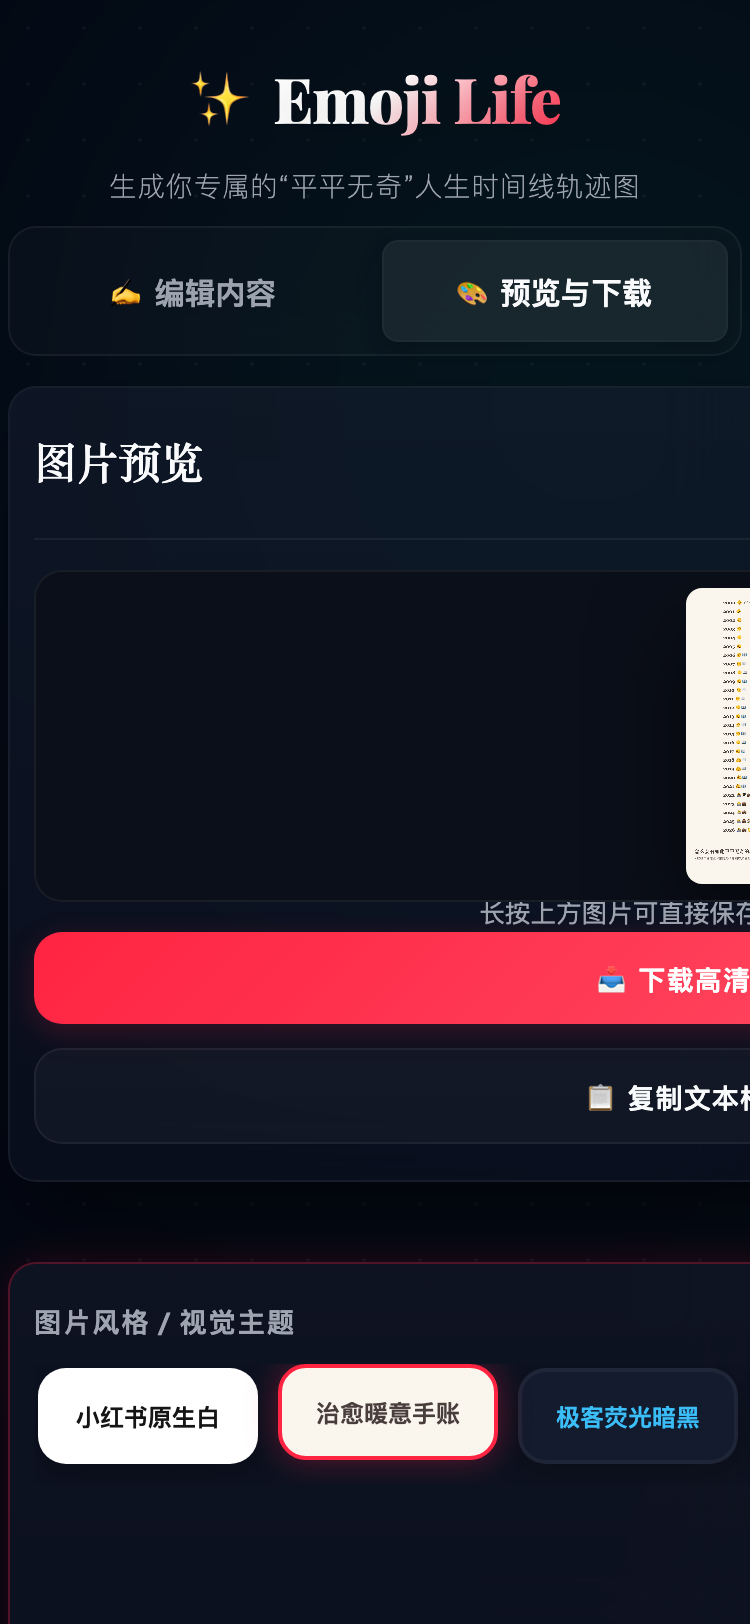
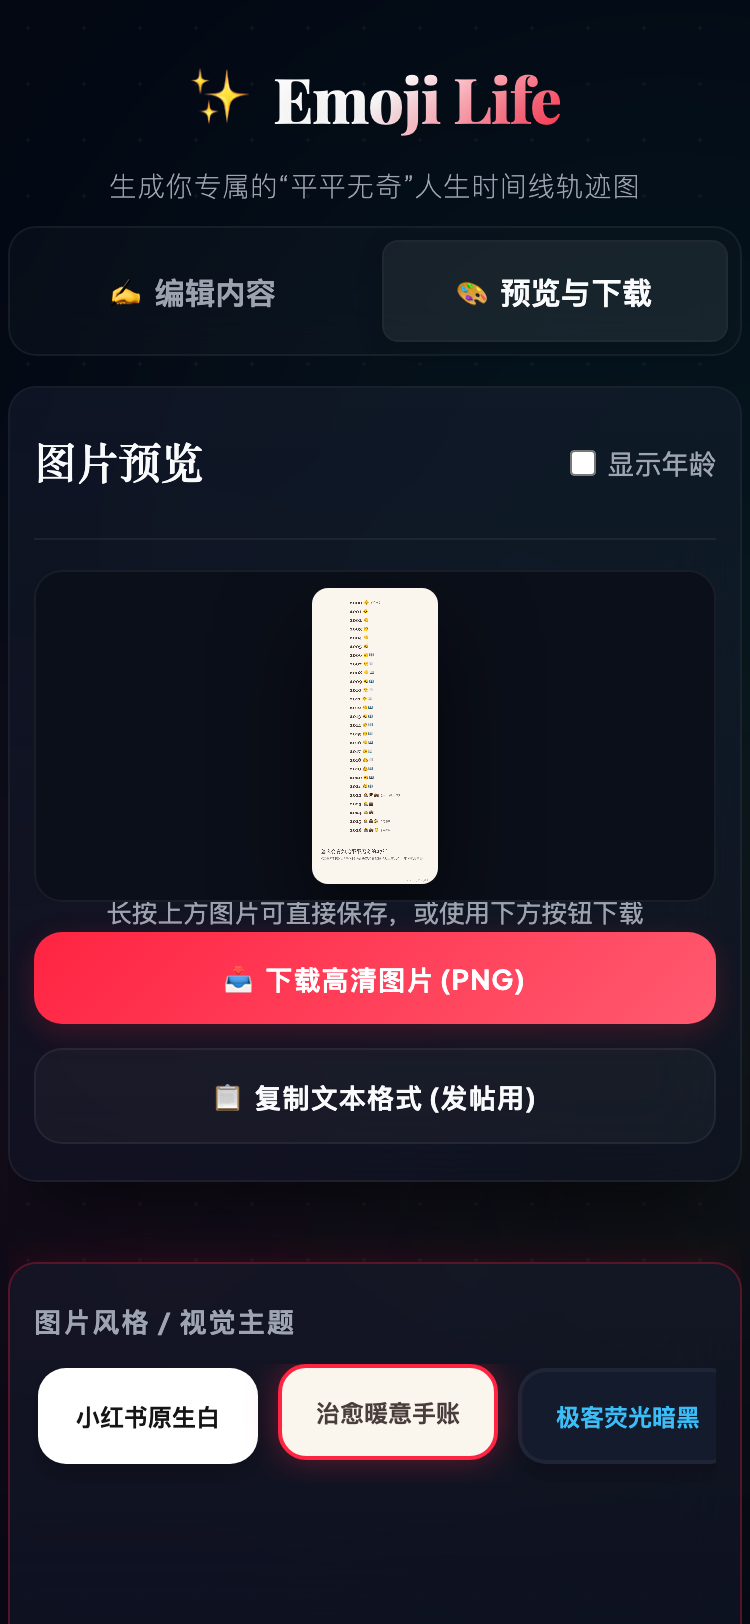
ux: fix flex/grid item min-width expansion bug on mobile screens

diff --git a/src/index.css b/src/index.css
@@ -218,6 +218,7 @@ body {
   transition: var(--transition-smooth);
   position: relative;
   overflow: hidden;
+  min-width: 0; /* Prevents children from expanding panel width */
 }
 
 .panel::before {
@@ -914,6 +915,13 @@ body {
   display: flex;
   flex-direction: column;
   gap: 20px;
+  min-width: 0; /* Prevents grid item from expanding past viewport */
+}
+
+.editor-layout-wrapper {
+  width: 100%;
+  min-width: 0;
+  overflow: hidden;
 }
 
 /* --- Mobile Tabs Header --- */